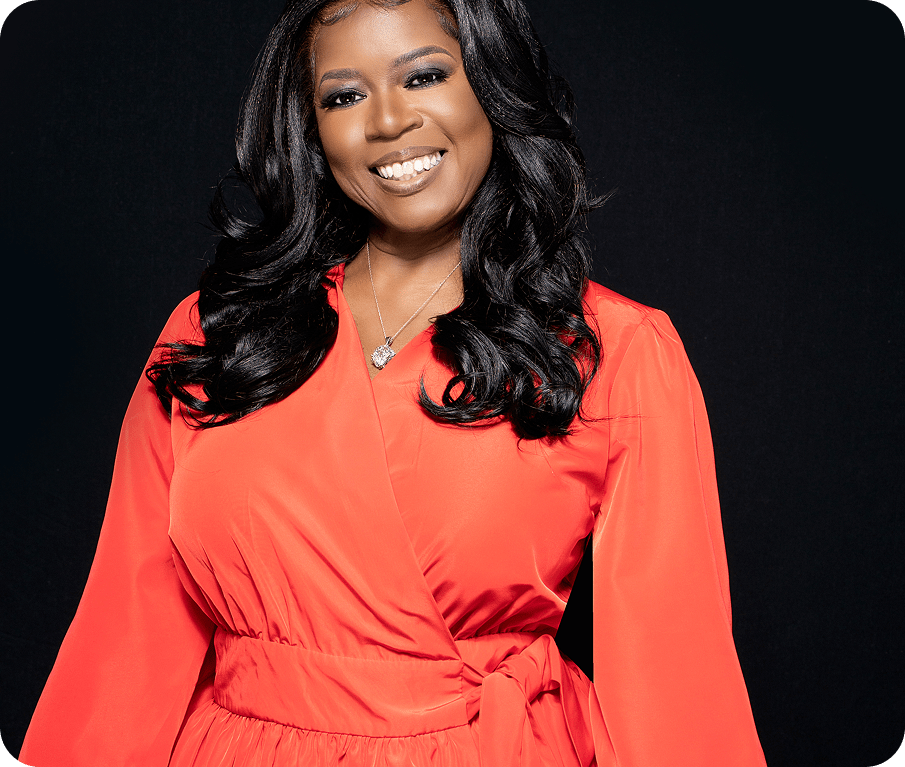
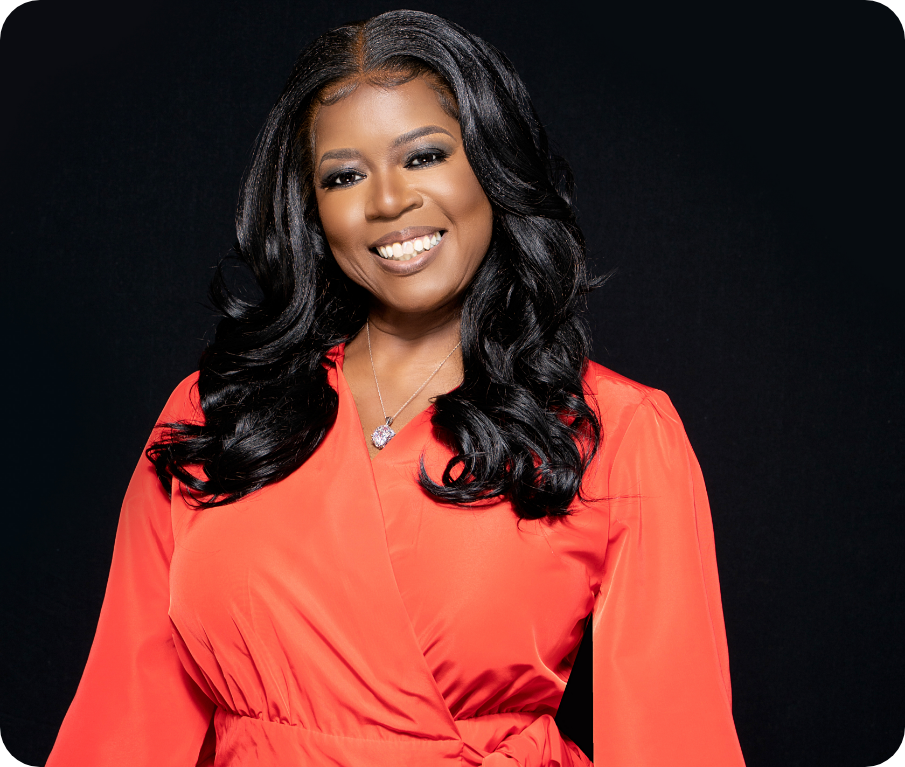
latest

diff --git a/src/output.css b/src/output.css
@@ -256,41 +256,17 @@
   .hidden {
     display: none;
   }
-  .table {
-    display: table;
-  }
-  .h-0 {
-    height: calc(var(--spacing) * 0);
-  }
   .h-0\.5 {
     height: calc(var(--spacing) * 0.5);
   }
   .h-46 {
     height: calc(var(--spacing) * 46);
   }
-  .h-80 {
-    height: calc(var(--spacing) * 80);
-  }
   .h-\[400px\] {
     height: 400px;
   }
   .h-full {
     height: 100%;
-  }
-  .min-h-\[9vh\] {
-    min-height: 9vh;
-  }
-  .min-h-\[10vh\] {
-    min-height: 10vh;
-  }
-  .min-h-\[80vh\] {
-    min-height: 80vh;
-  }
-  .min-h-\[90vh\] {
-    min-height: 90vh;
-  }
-  .min-h-\[95vh\] {
-    min-height: 95vh;
   }
   .min-h-\[100vh\] {
     min-height: 100vh;
@@ -319,14 +295,8 @@
   .max-w-\[1440px\] {
     max-width: 1440px;
   }
-  .flex-grow {
-    flex-grow: 1;
-  }
   .grow {
     flex-grow: 1;
-  }
-  .border-collapse {
-    border-collapse: collapse;
   }
   .-translate-y-2 {
     --tw-translate-y: calc(var(--spacing) * -2);
@@ -347,9 +317,6 @@
   }
   .cursor-pointer {
     cursor: pointer;
-  }
-  .resize {
-    resize: both;
   }
   .list-none {
     list-style-type: none;
@@ -384,13 +351,6 @@
   .gap-20 {
     gap: calc(var(--spacing) * 20);
   }
-  .space-y-1 {
-    :where(& > :not(:last-child)) {
-      --tw-space-y-reverse: 0;
-      margin-block-start: calc(calc(var(--spacing) * 1) * var(--tw-space-y-reverse));
-      margin-block-end: calc(calc(var(--spacing) * 1) * calc(1 - var(--tw-space-y-reverse)));
-    }
-  }
   .space-y-1\.5 {
     :where(& > :not(:last-child)) {
       --tw-space-y-reverse: 0;
@@ -410,41 +370,6 @@
       --tw-space-y-reverse: 0;
       margin-block-start: calc(calc(var(--spacing) * 4) * var(--tw-space-y-reverse));
       margin-block-end: calc(calc(var(--spacing) * 4) * calc(1 - var(--tw-space-y-reverse)));
-    }
-  }
-  .space-y-5 {
-    :where(& > :not(:last-child)) {
-      --tw-space-y-reverse: 0;
-      margin-block-start: calc(calc(var(--spacing) * 5) * var(--tw-space-y-reverse));
-      margin-block-end: calc(calc(var(--spacing) * 5) * calc(1 - var(--tw-space-y-reverse)));
-    }
-  }
-  .space-y-7 {
-    :where(& > :not(:last-child)) {
-      --tw-space-y-reverse: 0;
-      margin-block-start: calc(calc(var(--spacing) * 7) * var(--tw-space-y-reverse));
-      margin-block-end: calc(calc(var(--spacing) * 7) * calc(1 - var(--tw-space-y-reverse)));
-    }
-  }
-  .space-y-8 {
-    :where(& > :not(:last-child)) {
-      --tw-space-y-reverse: 0;
-      margin-block-start: calc(calc(var(--spacing) * 8) * var(--tw-space-y-reverse));
-      margin-block-end: calc(calc(var(--spacing) * 8) * calc(1 - var(--tw-space-y-reverse)));
-    }
-  }
-  .space-y-10 {
-    :where(& > :not(:last-child)) {
-      --tw-space-y-reverse: 0;
-      margin-block-start: calc(calc(var(--spacing) * 10) * var(--tw-space-y-reverse));
-      margin-block-end: calc(calc(var(--spacing) * 10) * calc(1 - var(--tw-space-y-reverse)));
-    }
-  }
-  .space-y-15 {
-    :where(& > :not(:last-child)) {
-      --tw-space-y-reverse: 0;
-      margin-block-start: calc(calc(var(--spacing) * 15) * var(--tw-space-y-reverse));
-      margin-block-end: calc(calc(var(--spacing) * 15) * calc(1 - var(--tw-space-y-reverse)));
     }
   }
   .space-x-3 {
@@ -476,10 +401,6 @@
   }
   .rounded-4xl {
     border-radius: var(--radius-4xl);
-  }
-  .border {
-    border-style: var(--tw-border-style);
-    border-width: 1px;
   }
   .bg-\[\#EFEFEF\] {
     background-color: #EFEFEF;
@@ -517,14 +438,8 @@
   .object-cover {
     object-fit: cover;
   }
-  .object-\[center-25\%\] {
-    object-position: center-25%;
-  }
   .object-\[center_25\%\] {
     object-position: center 25%;
-  }
-  .object-\[top_25\%\] {
-    object-position: top 25%;
   }
   .object-top {
     object-position: top;
@@ -590,15 +505,6 @@
   .shadow-md {
     --tw-shadow: 0 4px 6px -1px var(--tw-shadow-color, rgb(0 0 0 / 0.1)), 0 2px 4px -2px var(--tw-shadow-color, rgb(0 0 0 / 0.1));
     box-shadow: var(--tw-inset-shadow), var(--tw-inset-ring-shadow), var(--tw-ring-offset-shadow), var(--tw-ring-shadow), var(--tw-shadow);
-  }
-  .outline {
-    outline-style: var(--tw-outline-style);
-    outline-width: 1px;
-  }
-  .transition {
-    transition-property: color, background-color, border-color, outline-color, text-decoration-color, fill, stroke, --tw-gradient-from, --tw-gradient-via, --tw-gradient-to, opacity, box-shadow, transform, translate, scale, rotate, filter, -webkit-backdrop-filter, backdrop-filter, display, content-visibility, overlay, pointer-events;
-    transition-timing-function: var(--tw-ease, var(--default-transition-timing-function));
-    transition-duration: var(--tw-duration, var(--default-transition-duration));
   }
   .transition-all {
     transition-property: all;
@@ -1122,11 +1028,6 @@ ul li a {
   inherits: false;
   initial-value: 0;
 }
-@property --tw-border-style {
-  syntax: "*";
-  inherits: false;
-  initial-value: solid;
-}
 @property --tw-gradient-position {
   syntax: "*";
   inherits: false;
@@ -1238,11 +1139,6 @@ ul li a {
   inherits: false;
   initial-value: 0 0 #0000;
 }
-@property --tw-outline-style {
-  syntax: "*";
-  inherits: false;
-  initial-value: solid;
-}
 @property --tw-duration {
   syntax: "*";
   inherits: false;
@@ -1284,7 +1180,6 @@ ul li a {
       --tw-skew-y: initial;
       --tw-space-y-reverse: 0;
       --tw-space-x-reverse: 0;
-      --tw-border-style: solid;
       --tw-gradient-position: initial;
       --tw-gradient-from: #0000;
       --tw-gradient-via: #0000;
@@ -1309,7 +1204,6 @@ ul li a {
       --tw-ring-offset-width: 0px;
       --tw-ring-offset-color: #fff;
       --tw-ring-offset-shadow: 0 0 #0000;
-      --tw-outline-style: solid;
       --tw-duration: initial;
       --tw-scale-x: 1;
       --tw-scale-y: 1;

diff --git a/index.html b/index.html
@@ -91,7 +91,7 @@
           </h1>
 
           <div class="mt-8">
-            <a href="#" class="btn">LEARN MORE</a>
+            <a href="about.html" class="btn">LEARN MORE</a>
           </div>
         
         </div>
@@ -107,7 +107,7 @@
     <section class="px-6 bg-[#EFEFEF]">
         <div class="max-w-[1440px] mx-auto flex flex-col md:flex-row gap-5 md:gap-10 lg:gap-20 py-10 md:py-20 ">
             <div class="md:w-[50%] w-full rounded-3xl overflow-hidden">
-                <img src="assets/images/JHKS1326E.png" alt="meet Cassandra" class="w-full h-full rounded-3xl object-cover">
+                <img src="assets/images/JHKS1326E.png" alt="meet Cassandra" class="w-full h-full rounded-3xl object-top object-cover">
             </div>
             <div class="space-y-2 md:space-y-4 w-full md:w-[50%] flex flex-col  justify-center" >
                 
@@ -116,7 +116,7 @@
                     Dr. Cassandra Dickerson is an award-winning designer, innovator, and educator dedicated to advancing textile design and product development. Her work bridges science and creativity, leading to patented solutions and meaningful design research.
                 </p>
                 <div class="mt-5 md:mt-8">
-                    <a href="#" class="btn">LEARN MORE</a>
+                    <a href="about.html" class="btn">LEARN MORE</a>
             </div>
             </div>
     </section>
